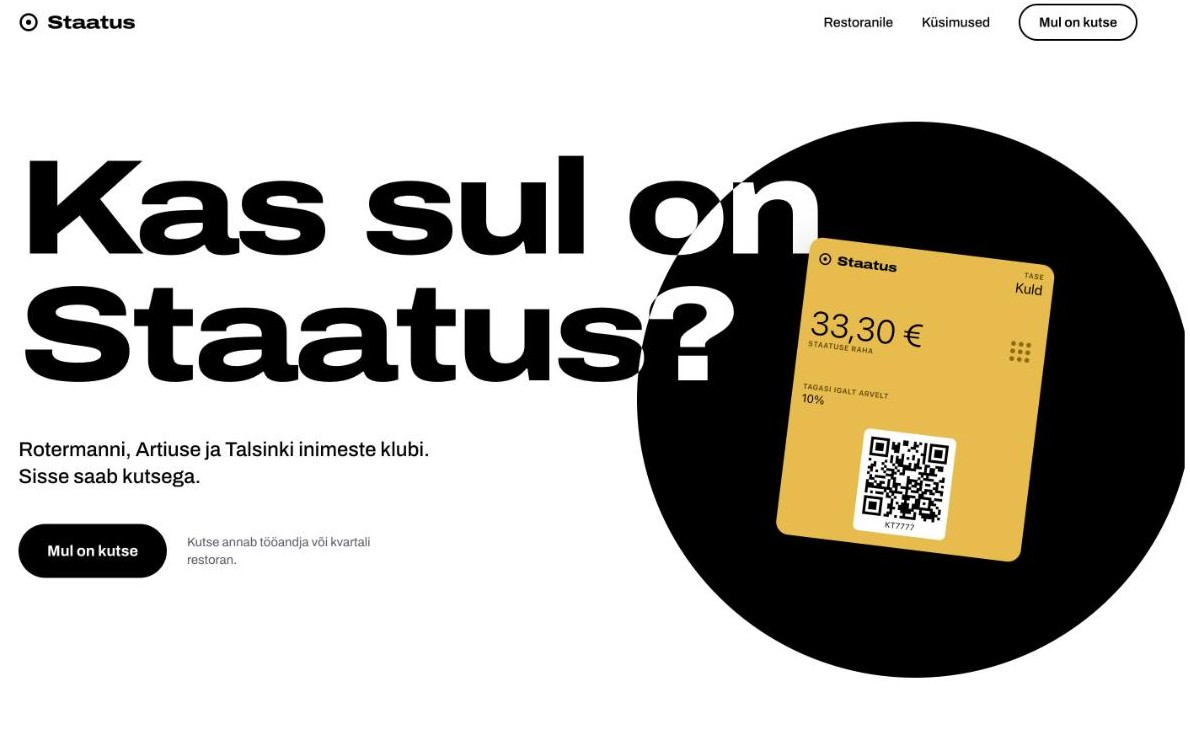
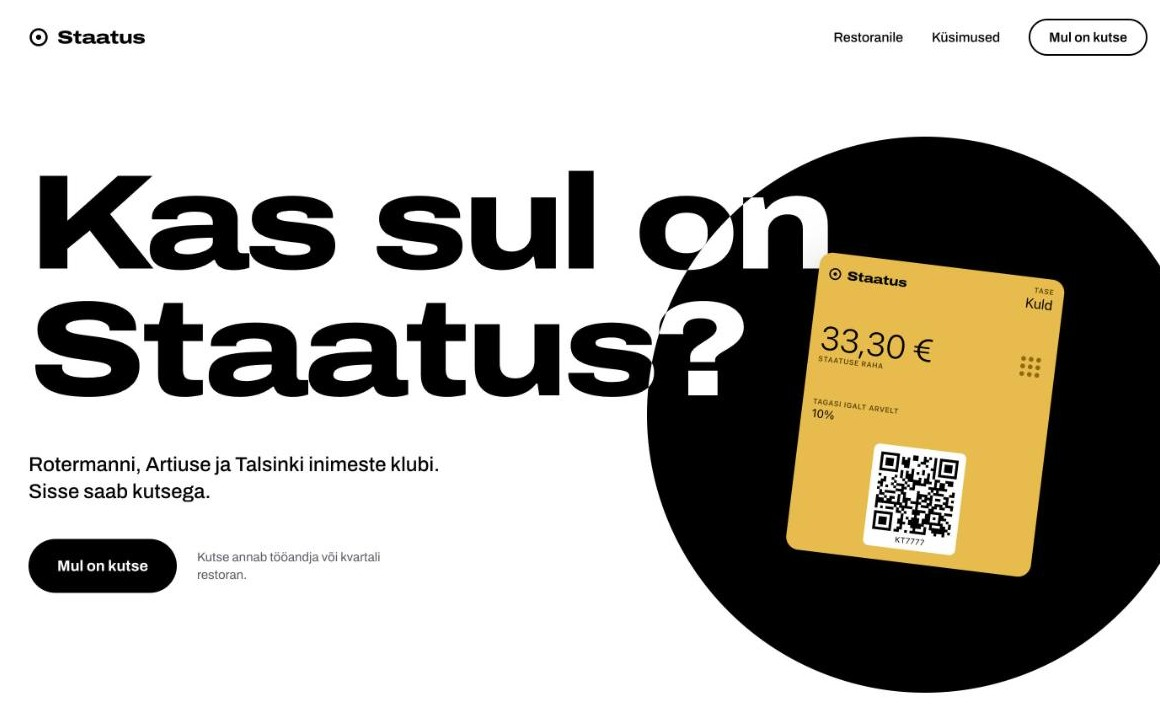
Refresh Staatus and Sukoda images, align copy style
Claude-Session: https://claude.ai/code/session_01XTXSzpFqQsXKbVrVMY7m8D

diff --git a/src/App.tsx b/src/App.tsx
@@ -35,17 +35,10 @@ const lead: Project = {
 const theList: Project = {
   title: 'The List',
   description:
-    'Digital services for city quarters and residential developments, starting with the Rotermann Quarter in Tallinn.',
+    'Digital keys, access and a community app for city quarters. In use at Golden Gate in the Rotermann Quarter in Tallinn, soon across the whole quarter, with Talsinki next.',
   status: 'live',
   image: '/projects/thelist/tile.jpg',
 };
-
-const theListServices = [
-  'Digital keys on the phone for offices and the sports club. In use at Golden Gate, soon across the whole quarter',
-  'Offices issue access to their own people',
-  'The Rotermann app for people who live and work in the quarter',
-  'Next: Talsinki, with a lounge for residents',
-];
 
 const featuredTop: Project[] = [
   {
@@ -70,7 +63,7 @@ const featuredBottom: Project[] = [
   {
     title: 'Staatus',
     description:
-      'A club for the people of Rotermann, Artius and Talsinki. One card on the phone and 10% of every restaurant bill back. Entry is by invitation. Run by The List.',
+      'An invitation-only club for the people of Rotermann, Artius and Talsinki, with 10% of every restaurant bill back.',
     url: 'https://minustaatus.ee',
     status: 'building',
     image: '/projects/staatus/tile.jpg',
@@ -78,7 +71,7 @@ const featuredBottom: Project[] = [
   {
     title: 'Sukoda',
     description:
-      'An app for home cleaners and their clients. Agree on a time, mark the job done and handle requests without calling.',
+      'An app for housekeepers that takes care of times, reminders and the monthly summary.',
     url: 'https://www.sukoda.ee',
     status: 'live',
     image: '/projects/sukoda/tile.jpg',
@@ -188,14 +181,6 @@ function App() {
                 <StatusTag status={theList.status} />
                 <h3 className="mt-3 text-4xl font-semibold tracking-tight sm:text-5xl">{theList.title}</h3>
                 <p className="mt-4 max-w-md text-lg leading-relaxed text-[#3A4B60]">{theList.description}</p>
-                <ul className="mt-5 max-w-md space-y-2 text-[#3A4B60]">
-                  {theListServices.map((item) => (
-                    <li key={item} className="flex gap-3">
-                      <span className="mt-[0.6em] h-1.5 w-1.5 shrink-0 rounded-full bg-[#0B2239]" aria-hidden="true" />
-                      {item}
-                    </li>
-                  ))}
-                </ul>
               </div>
             </div>
 
